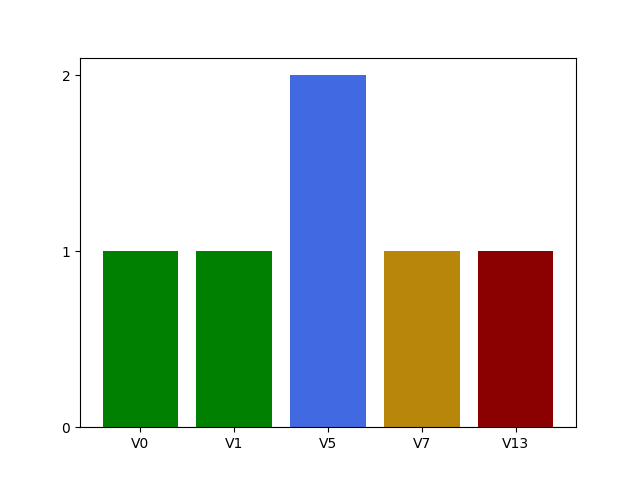
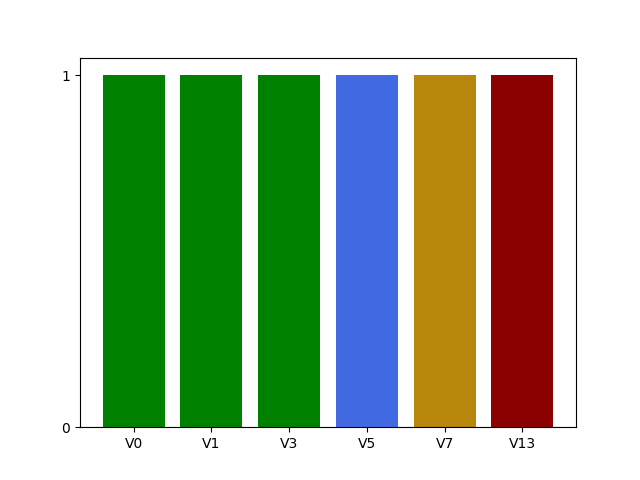
fix Battle Cat grade

diff --git a/sections/index.tex b/sections/index.tex
@@ -17,7 +17,7 @@
 \begin{center}
 \rowcolors{2}{MidnightBlue!10}{white}
 \begin{supertabular}{p{0.76\linewidth}p{0.08\linewidth}}
-Battle Cat V5 & \pageref{rt:Battle Cat} \\
+Battle Cat V3 & \pageref{rt:Battle Cat} \\
 Catacomb V13 & \pageref{rt:Catacomb} \\
 Do You Like Wendy's? V1 & \pageref{vr:Do You Like Wendy's?} \\
 Griffin's Problem V7 & \pageref{rt:Griffin's Problem} \\
@@ -32,8 +32,8 @@ Oakridge Hot China V0 & \pageref{rt:Oakridge Hot China} \\
 \begin{supertabular}{p{0.18\linewidth}p{0.13\linewidth}p{0.45\linewidth}p{0.08\linewidth}}
 \ding{72}\ding{72} &V0&Oakridge Hot China & \pageref{rt:Oakridge Hot China} \\
 \ding{72}\ding{72} &V1&Do You Like Wendy's? & \pageref{vr:Do You Like Wendy's?} \\
+\ding{72} &V3&Battle Cat & \pageref{rt:Battle Cat} \\
 \ding{72}\ding{72} &V5&Mellon Helmet & \pageref{rt:Mellon Helmet} \\
-\ding{72} &V5&Battle Cat & \pageref{rt:Battle Cat} \\
 \ding{72}\ding{72}\ding{72} &V7&Griffin's Problem & \pageref{rt:Griffin's Problem} \\
 \ding{72}\ding{72}\ding{72} &V13&Catacomb & \pageref{rt:Catacomb} \\
 \end{supertabular}

diff --git a/sections/The Crops.tex b/sections/The Crops.tex
@@ -114,10 +114,10 @@
 
 \needspace{2em}
 \phantomsection\label{rt:Battle Cat}
-\colorbox{RoyalBlue!20}{
+\colorbox{green!20}{
 \parbox{0.95\linewidth}{
 \hspace{-1ex}\textbf{$\Box$
-4 Battle Cat V5 \ding{72} 
+4 Battle Cat V3 \ding{72} 
 }}}
 \begin{adjustwidth}{1.3em}{}			
 

diff --git a/GB_Data.py b/GB_Data.py
@@ -41,7 +41,7 @@ Route(name='Mellon Helmet',
       description='')
 Route(name='Battle Cat',
       parent=book.formations['Mellon Helmet'],
-      grade=5,
+      grade=3,
       rating=1,
       FA='Griffin Thoms',
       description='')
